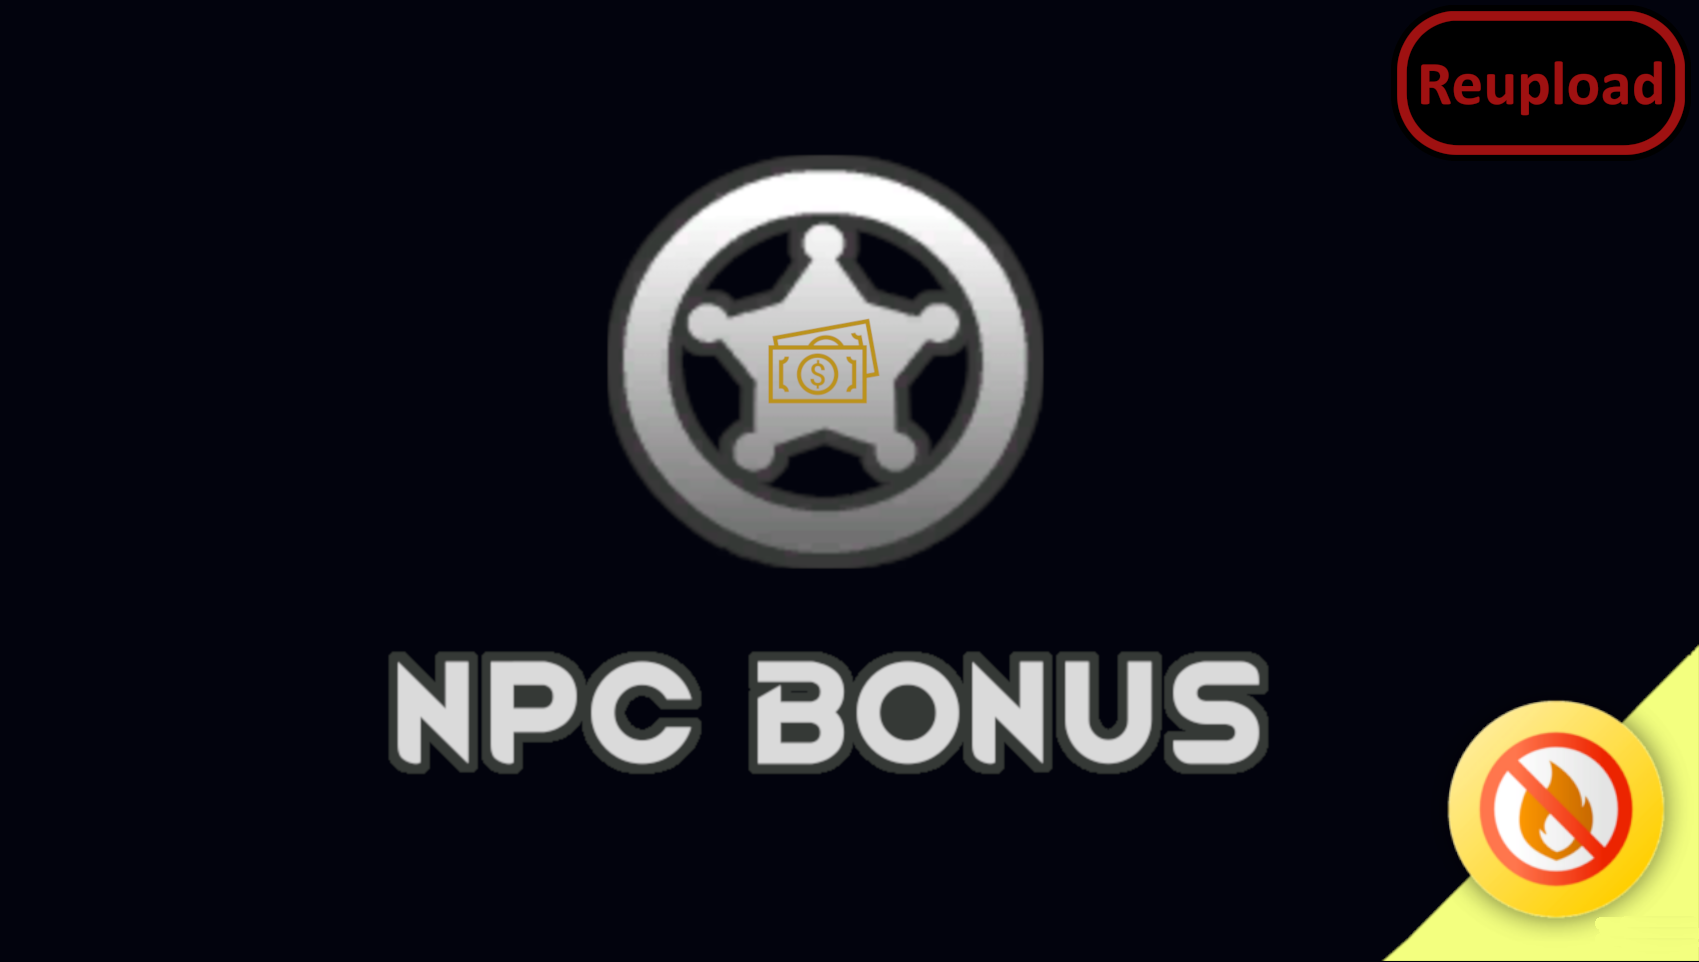
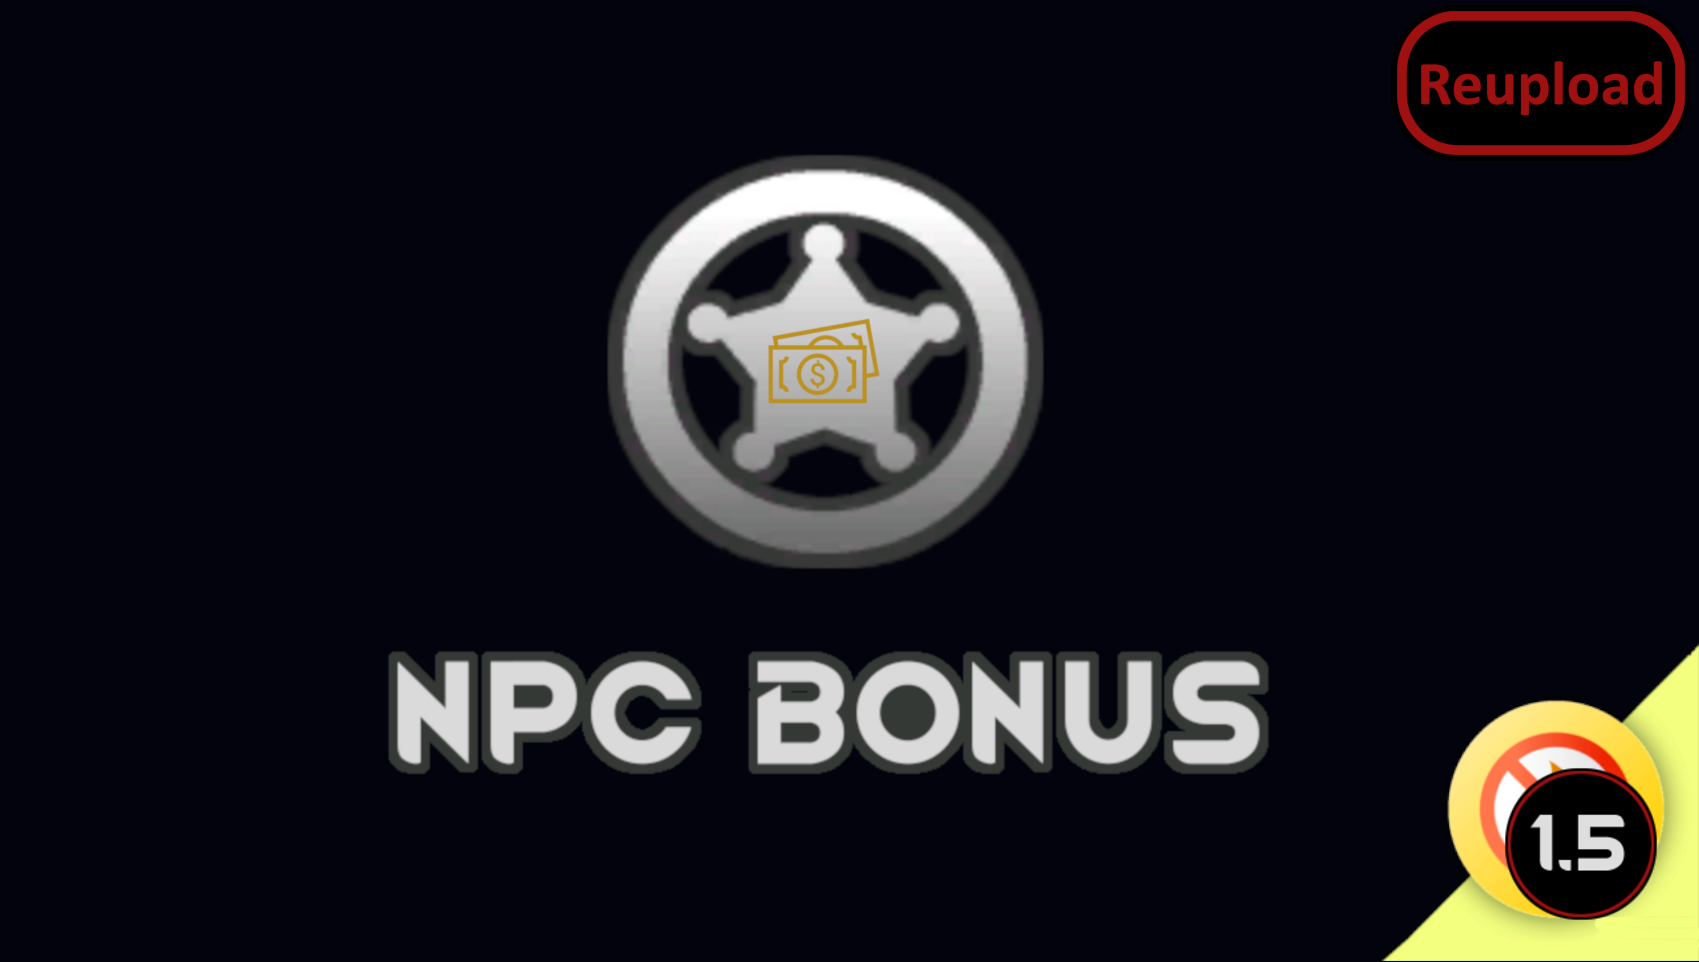
Mod updated for 1.5 and passed autotests Used DeepL to update translations for ChineseSimplified, French, German

Changed region(s): [[0.8735, 0.7796, 0.9982, 0.9667]]

diff --git a/Source/NPCBonus/Controller.cs b/Source/NPCBonus/Controller.cs
@@ -13,7 +13,7 @@ public class Controller : Mod
     {
         Settings = GetSettings<Settings>();
         currentVersion =
-            VersionFromManifest.GetVersionFromModMetaData(ModLister.GetActiveModWithIdentifier("Mlie.NPCBonus"));
+            VersionFromManifest.GetVersionFromModMetaData(content.ModMetaData);
     }
 
     public override string SettingsCategory()

diff --git a/Source/NPCBonus/NPCBonusUtility.cs b/Source/NPCBonus/NPCBonusUtility.cs
@@ -7,7 +7,7 @@ namespace NPCBonus;
 
 public class NPCBonusUtility
 {
-    private static List<ThingStuffPair> allWeaponPairs = new List<ThingStuffPair>();
+    private static List<ThingStuffPair> allWeaponPairs = [];
 
     public static float GetMinWeaponValue(PawnKindDef PKD)
     {

diff --git a/README.md b/README.md
@@ -74,11 +74,13 @@ Would suggest adding this mod at the end of the mod list or at least after any f
 
 -  See if the the error persists if you just have this mod and its requirements active.
 -  If not, try adding your other mods until it happens again.
--  Post your error-log using https://steamcommunity.com/workshop/filedetails/?id=818773962]HugsLib and command Ctrl+F12
+-  Post your error-log using https://steamcommunity.com/workshop/filedetails/?id=818773962]HugsLib or the standalone https://steamcommunity.com/sharedfiles/filedetails/?id=2873415404]Uploader and command Ctrl+F12
 -  For best support, please use the Discord-channel for error-reporting.
 -  Do not report errors by making a discussion-thread, I get no notification of that.
 -  If you have the solution for a problem, please post it to the GitHub repository.
+-  Use https://github.com/RimSort/RimSort/releases/latest]RimSort to sort your mods
 
 
 
+https://steamcommunity.com/sharedfiles/filedetails/changelog/2195967255]![Image](https://img.shields.io/github/v/release/emipa606/NPCBonus?label=latest%20version&style=plastic&color=9f1111&labelColor=black)
 
